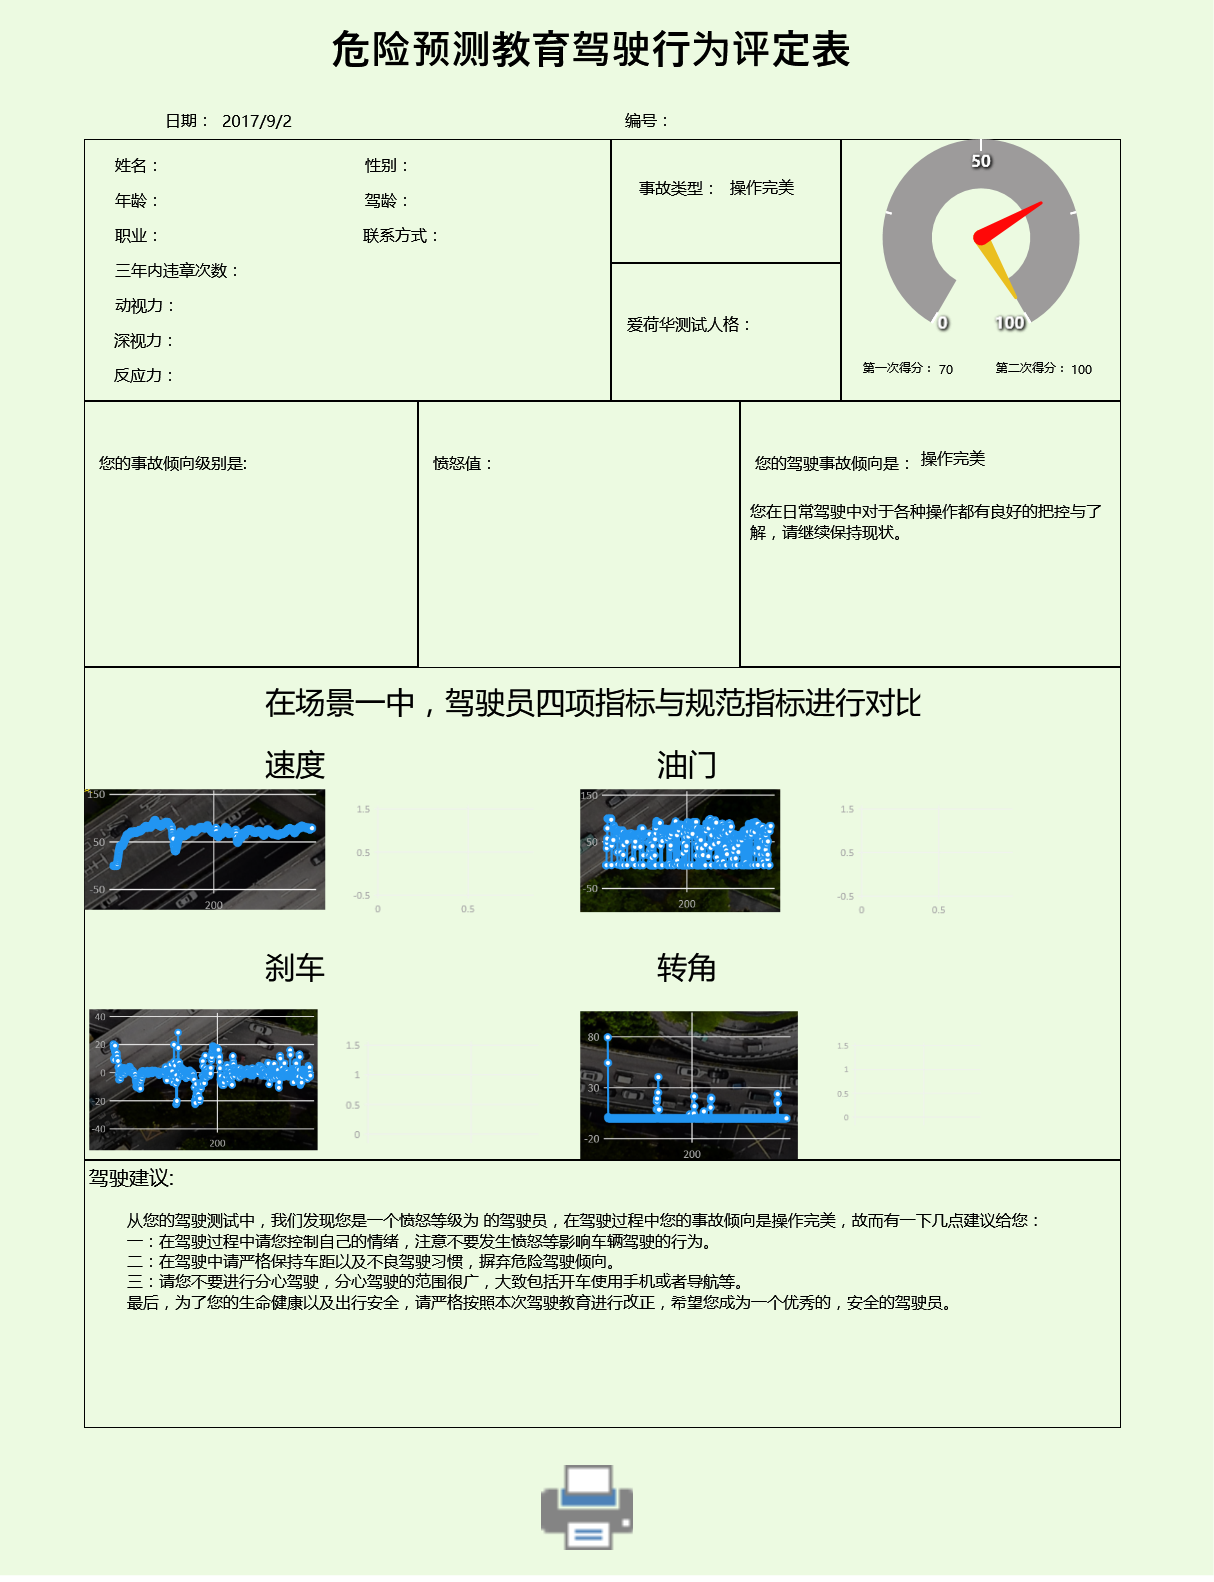
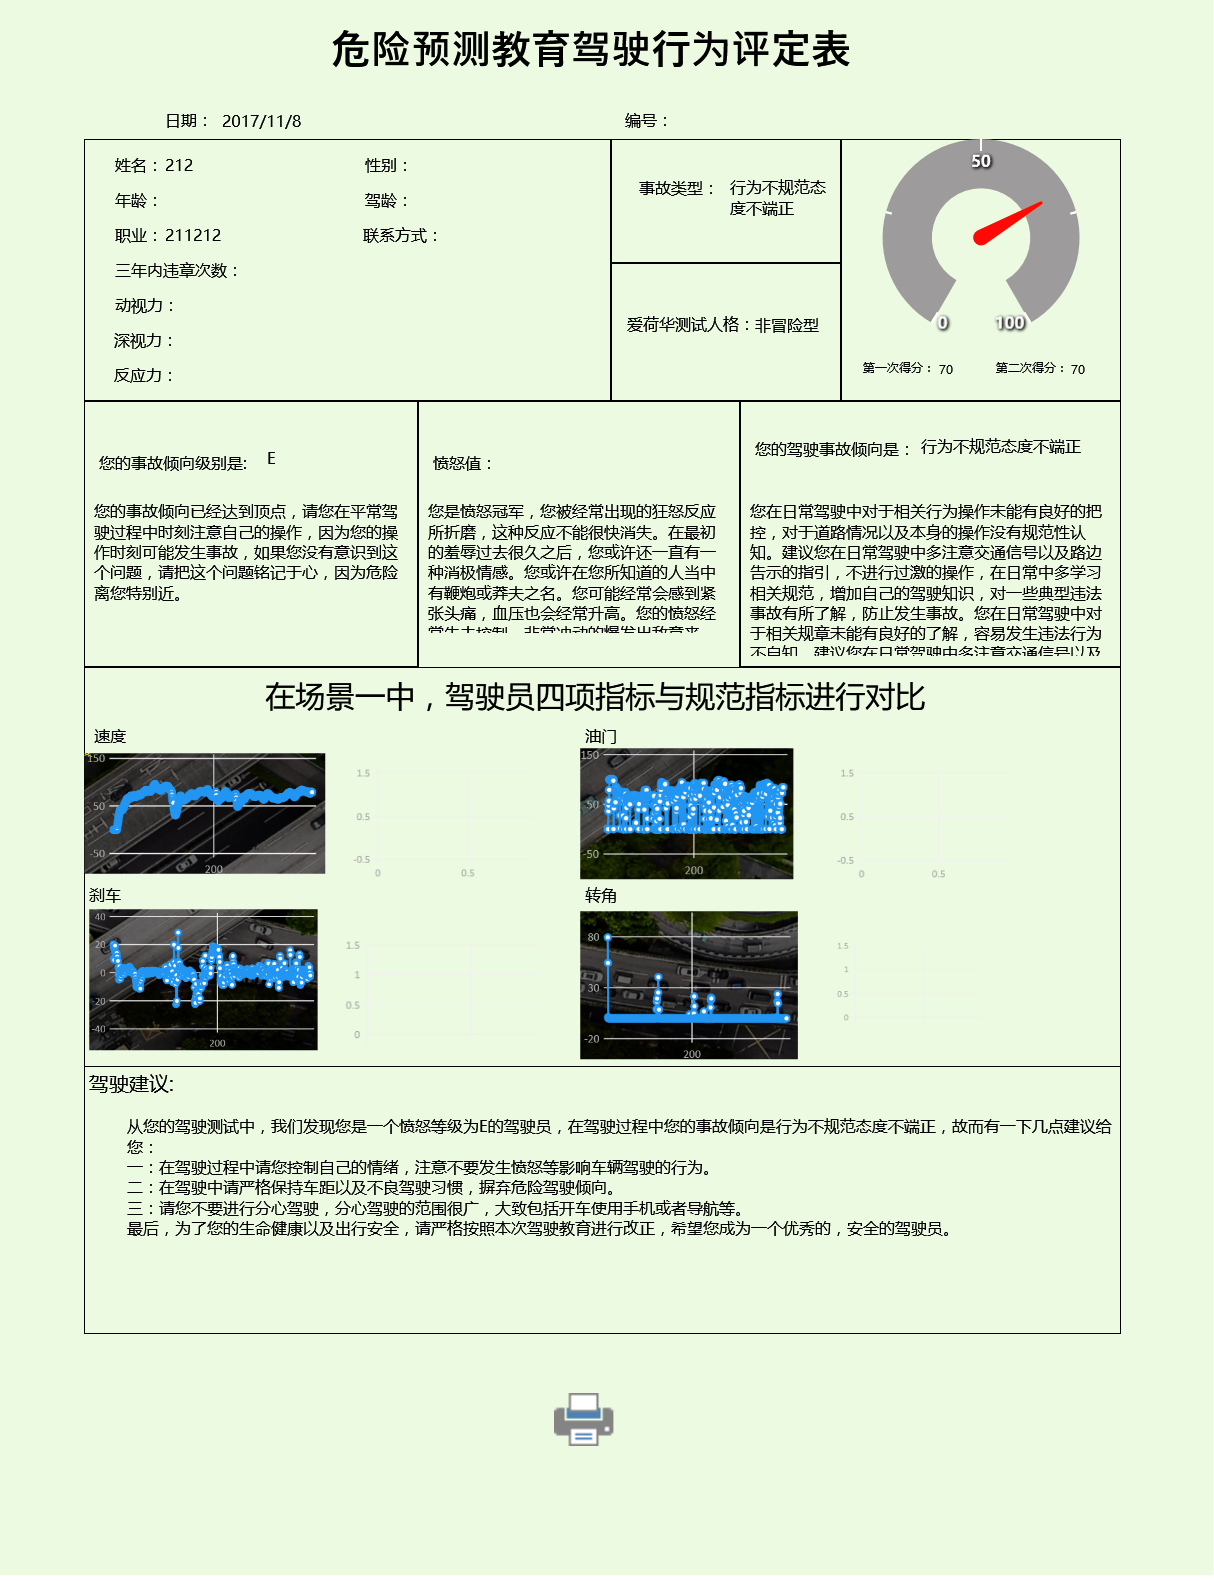
quxiaohui

diff --git a/DSIES/Pages/EducationPage.xaml b/DSIES/Pages/EducationPage.xaml
@@ -7,33 +7,35 @@
       d:DesignHeight="640" d:DesignWidth="960"
 	Title="EducationPage">
 
-    <Grid HorizontalAlignment="Stretch" VerticalAlignment="Stretch" Width="960" Height="640">
-        <Grid.ColumnDefinitions>
-            <ColumnDefinition/>
-        </Grid.ColumnDefinitions>
+            <Grid HorizontalAlignment="Stretch" VerticalAlignment="Stretch" Width="960" Height="640">
+                
+                <Grid.ColumnDefinitions>
+                    <ColumnDefinition/>
+                </Grid.ColumnDefinitions>
 
-        <Grid Margin="0,0,-1,96.8">
-            <Grid.ColumnDefinitions>
-                <ColumnDefinition/>
-            </Grid.ColumnDefinitions>
-            <Viewbox x:Name="video"  >
-                <Border BorderThickness="3" Background="#FF3FBA57" Height="384" Width="753" Margin="0,0,-0.2,0">
-                    <Border.BorderBrush>
-                        <LinearGradientBrush StartPoint="0.5,0" EndPoint="0.5,1">
-                            <GradientStop Offset="0" Color="White"/>
-                            <GradientStop Offset="0.5" Color="#FF95A09E"/>
-                        </LinearGradientBrush>
-                    </Border.BorderBrush>
-                    <MediaElement  x:Name="mediaElement" Volume="{Binding Value, ElementName=volumeSlider}" LoadedBehavior="Manual" Margin="-3"/>
-                </Border>
-            </Viewbox>
-            <Grid  x:Name="buttons" Margin="0,389,0,-90" VerticalAlignment="Bottom">
-                <Button Style="{DynamicResource ButtonStylenext}" x:Name="backBtn" Click="backBtn_Click" Content="next"  Margin="0,-10,0,10" Height="80" Width="100" VerticalAlignment="Bottom" HorizontalAlignment="Right"/>
-                <Button Style="{DynamicResource ButtonStylepause}"  x:Name="pause_Button" Click="pause_Button_Click"  Visibility="Visible" HorizontalAlignment="Left" VerticalAlignment="Top" Height="80" Width="100" Background="{x:Null}" Margin="10,-10,0,0" />
-                <Button Style="{DynamicResource ButtonStyleplay}"  x:Name="play_Button" Click="play_Button_Click" Visibility="Hidden"  Margin="10,-10,0,0" HorizontalAlignment="Left" VerticalAlignment="Top" Height="80" Width="100" />
-                <Label x:Name="label" Content="教育视频播放完毕后请点击next进行下一步。" HorizontalAlignment="Left" Height="40" Margin="221,18,0,0" VerticalAlignment="Top" Width="508" Background="{x:Null}" Foreground="Gold" FontSize="24"/>
+                <Grid Margin="0,0,-1,96.8">
+                    <Grid.ColumnDefinitions>
+                        <ColumnDefinition/>
+                    </Grid.ColumnDefinitions>
+                    <Viewbox x:Name="video"  >
+                        <Border BorderThickness="3" Background="#FF3FBA57" Height="384" Width="753" Margin="0,0,-0.2,0">
+                            <Border.BorderBrush>
+                                <LinearGradientBrush StartPoint="0.5,0" EndPoint="0.5,1">
+                                    <GradientStop Offset="0" Color="White"/>
+                                    <GradientStop Offset="0.5" Color="#FF95A09E"/>
+                                </LinearGradientBrush>
+                            </Border.BorderBrush>
+                            <MediaElement  x:Name="mediaElement" Volume="{Binding Value, ElementName=volumeSlider}" LoadedBehavior="Manual" Margin="-3"/>
+                        </Border>
+                    </Viewbox>
+                    <Grid  x:Name="buttons" Margin="0,389,0,-90" VerticalAlignment="Bottom">
+                        <Button Style="{DynamicResource ButtonStylenext}" x:Name="backBtn" Click="backBtn_Click" Content="next"  Margin="0,-10,0,10" Height="80" Width="100" VerticalAlignment="Bottom" HorizontalAlignment="Right"/>
+                        <Button Style="{DynamicResource ButtonStylepause}"  x:Name="pause_Button" Click="pause_Button_Click"  Visibility="Visible" HorizontalAlignment="Left" VerticalAlignment="Top" Height="80" Width="100" Background="{x:Null}" Margin="10,-10,0,0" />
+                        <Button Style="{DynamicResource ButtonStyleplay}"  x:Name="play_Button" Click="play_Button_Click" Visibility="Hidden"  Margin="10,-10,0,0" HorizontalAlignment="Left" VerticalAlignment="Top" Height="80" Width="100" />
+                <Label x:Name="label" Content="教育视频播放完毕后请点击next进行下一步。" HorizontalAlignment="Left" Height="40" Margin="221,-35,0,0" VerticalAlignment="Top" Width="508" Background="{x:Null}" Foreground="Gold" FontSize="24"/>
             </Grid>
+            <Image x:Name="progress5" Margin="150,0,124,-157.8" Source="..\Picture\5.png" Height="250" VerticalAlignment="Bottom" OpacityMask="Black"/>
         </Grid>
-    </Grid>
-</Page>
+      </Grid>
+ </Page>
 

diff --git a/DSIES/MainWindow.xaml b/DSIES/MainWindow.xaml
@@ -34,7 +34,7 @@
             <TextBlock Grid.Column="0" Margin="38,10,59,0" Name="Logo" VerticalAlignment="Top" FontFamily="/DSIES;component/Fonts/#AF TOMMY HILFIGER" FontSize="24" FontWeight="Bold" Foreground="#FF999999" TextAlignment="Center" Height="29">DSIES</TextBlock>
 
             <Grid Height="50" VerticalAlignment="Top">
-                <Image x:Name="logo" Source="Picture/校徽.png" HorizontalAlignment="Left" Height="100" Margin="11,61,0,-111" VerticalAlignment="Top" Width="100" RenderTransformOrigin="0.663,1.056"/>
+                <!--<Image x:Name="logo" Source="Picture/校徽.png" HorizontalAlignment="Left" Height="100" Margin="11,61,0,-111" VerticalAlignment="Top" Width="100" RenderTransformOrigin="0.663,1.056"/>-->
             </Grid>
 
             <Border Grid.Column="2" Name="Line" BorderBrush="#ff999999" Margin="10,12" Height="26" VerticalAlignment="Center" BorderThickness="0.5"/>

diff --git a/DSIES/Pages/EducationLoadPage.xaml b/DSIES/Pages/EducationLoadPage.xaml
@@ -9,7 +9,7 @@
 	Title="EducationLoadPage">
     <Grid HorizontalAlignment="Right" VerticalAlignment="Top" Width="1214" Height="640">
         <Grid>
-            <Image x:Name="progress4" Margin="150,0,130,-60" Source="..\Picture\4.png" Height="250" VerticalAlignment="Bottom"/>
+            <Image x:Name="progress4" Margin="150,0,130,-60" Source="..\Picture\4.png" Height="250" VerticalAlignment="Bottom" OpacityMask="Black"/>
             <Image x:Name="police" Source="..\Picture\做场景.png" Margin="0,136,501,114" />
             <local:GifImage x:Name="GIFCtrl" Margin="500,400,200,215" Visibility="Hidden"/>
             <!--<Button Style="{DynamicResource ButtonStylenext}" x:Name="button" Click="button_Click" Content="Button" HorizontalAlignment="Left" Margin="804,500,0,0" VerticalAlignment="Top" Width="90" Height="90" RenderTransformOrigin="4.651,0.84"/>-->

diff --git a/DSIES/Pages/Education_educatePage.xaml b/DSIES/Pages/Education_educatePage.xaml
@@ -11,7 +11,7 @@
     <Grid HorizontalAlignment="Right" VerticalAlignment="Top" Width="1214" Height="640">
 
         <Grid>
-            <Image x:Name="progress5" Margin="150,0,130,-50" Source="..\Picture\5.png" Height="250" VerticalAlignment="Bottom"/>
+            <Image x:Name="progress5" Margin="150,0,130,-50" Source="..\Picture\6.png" Height="250" VerticalAlignment="Bottom"/>
             <Image x:Name="police" Source="..\Picture\做场景.png" Margin="0,136,501,114" />
             <local:GifImage x:Name="GIFCtrl" Margin="500,400,200,215" Visibility="Hidden"/>
             <!--<Button Style="{DynamicResource ButtonStylenext}" x:Name="button" Click="button_Click" Content="Button" HorizontalAlignment="Left" Margin="804,500,0,0" VerticalAlignment="Top" Width="90" Height="90" RenderTransformOrigin="4.651,0.84"/>

diff --git a/DSIES/Pages/DataExportPage.xaml b/DSIES/Pages/DataExportPage.xaml
@@ -31,7 +31,7 @@
                     </Grid.Background>
 
                     <Grid Margin="0,10,0,0" >
-                        <Canvas x:Name="printArea" Margin="0,0,0.4,124.8">
+                        <Canvas x:Name="printArea" Margin="0,0,0,0">
                             <Canvas.Background>
                                 <ImageBrush ImageSource="/DSIES;component/Picture/reportback.jpg"/>
                             </Canvas.Background>

diff --git a/DSIES/Pages/QuestionPage1.xaml.cs b/DSIES/Pages/QuestionPage1.xaml.cs
@@ -1269,9 +1269,9 @@ namespace DSIES.Pages
                 flag += 1;
                 CustomMessageBox.Show("温馨提示：","您第27题未答完，请继续答题！");//您有未答完题目，请继续答题！
             }
-            
 
-             // flag = 0;//记得删。
+
+            flag = 0;//记得删。
             if (flag == 0)
             {
                 var dr = CustomMessageBox.Show("温馨提示：", "您的答案已全部属实回答了吗?");//yes or no,设一个参数

diff --git a/DSIES/Pages/DataExportPage.xaml.cs b/DSIES/Pages/DataExportPage.xaml.cs
@@ -151,6 +151,7 @@ namespace DSIES.Pages
             PngBitmapEncoder saveEncoder = new PngBitmapEncoder();
             saveEncoder.Frames.Add(BitmapFrame.Create(pic));
             System.IO.FileStream fs = System.IO.File.Open("..//..//..//用户报表//" + PageList.Login.Regular.Telephone + ".jpg", System.IO.FileMode.OpenOrCreate);
+            CustomMessageBox.Show("温馨提示：", "save!");
             saveEncoder.Save(fs);
 
         }

diff --git a/DSIES/Pages/LoginPage.xaml.cs b/DSIES/Pages/LoginPage.xaml.cs
@@ -78,7 +78,7 @@ namespace DSIES.Pages
         {
             Read_Register_Data();
             PageList.SceneSelect = new SceneSelectPage();
-            PageList.Main.setPage(PageList.SceneSelect);//.Questionandgame);//
+            PageList.Main.setPage(PageList.Questionandgame);//.SceneSelect);//
         }
     }
 }
